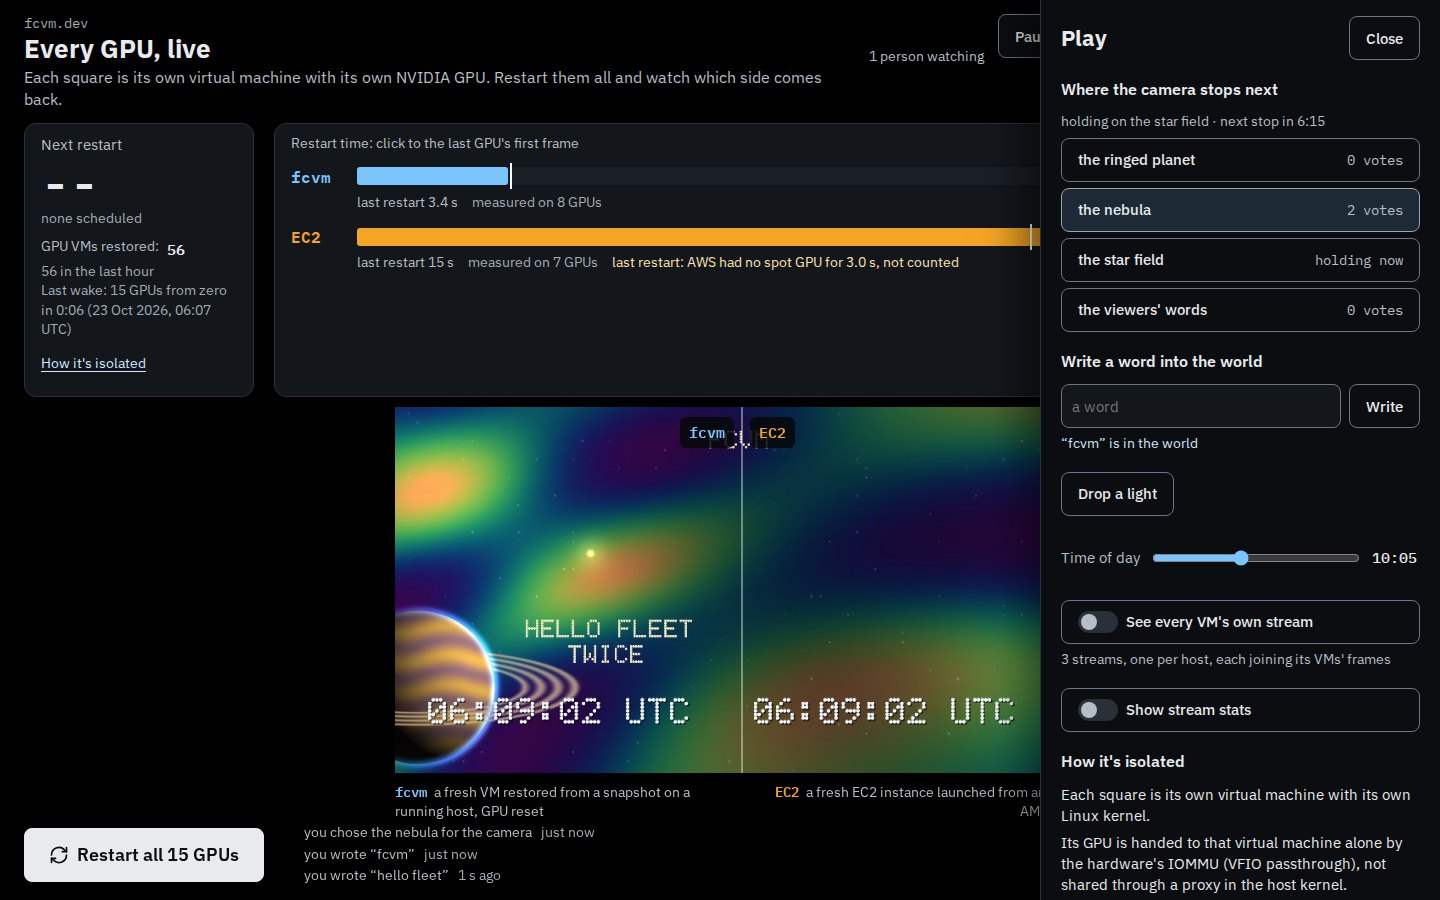
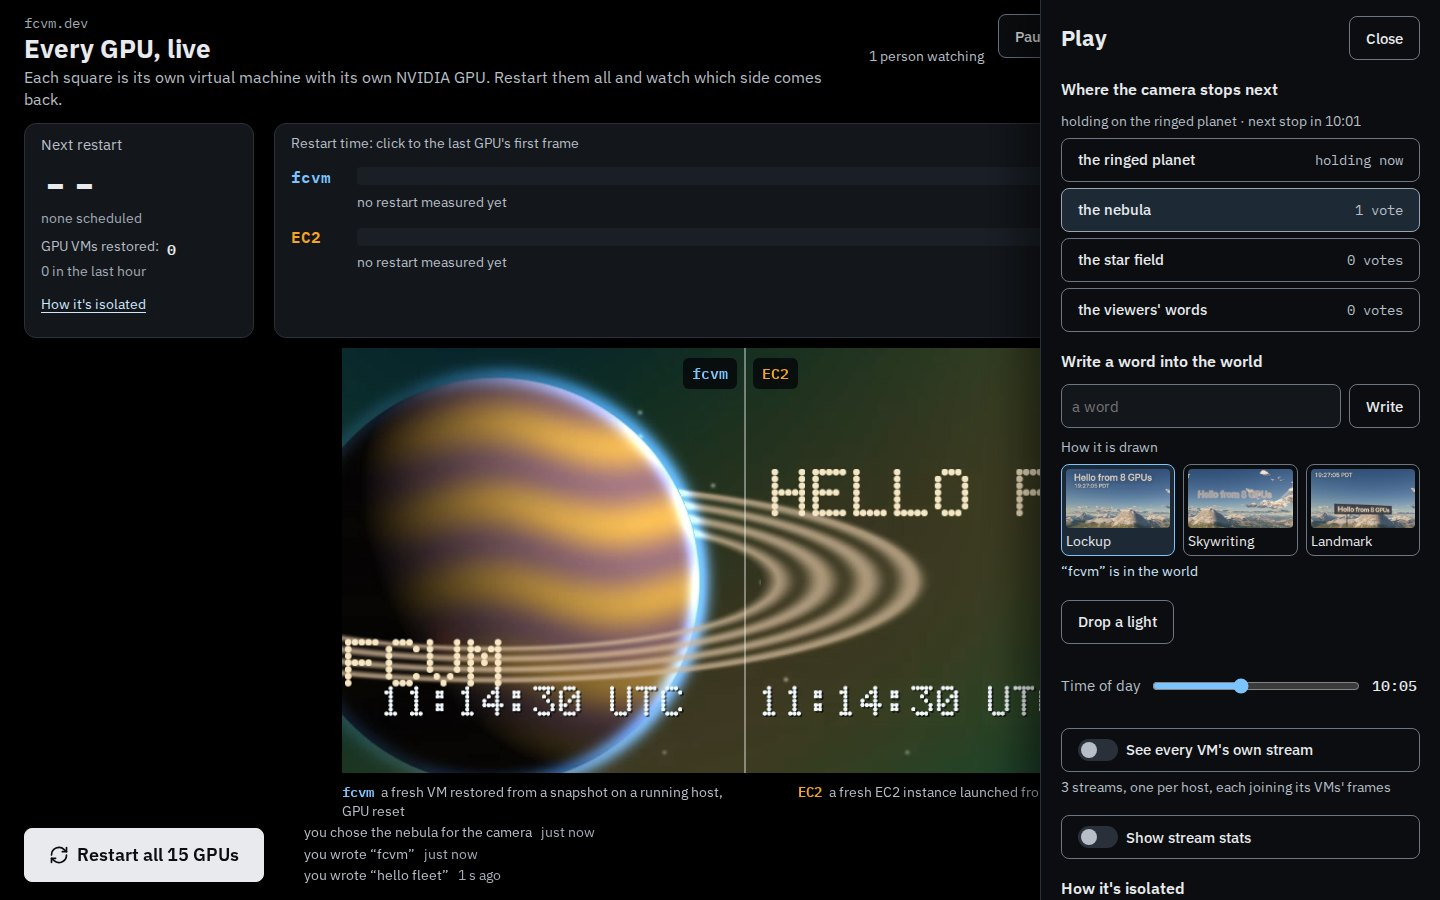
fleet/web: the sender picks the style of their sky message
The word intent carries text_style: lockup (the default), skywriting or
landmark. The Play drawer offers the three as a radio group under the word
field, Lockup preselected, each with a 320x180 thumbnail cropped from the
renderer's shots/text-styles.jpg (#1178, cb3eb357) into public/text-styles/.
Native radios keep it on Tab and the arrow keys. The phone layout gains a
"Play" link under the button so the drawer, and the choice, are reachable
there.

- core/view.ts: TEXT_STYLES, wordArgs(text, style), PlayView.word.style
- core/store.ts: ui.textStyle, default lockup
- mock/coordinator.ts: refuses an unknown text_style, keeps it per word in
  scene.words[]
- app/_wall/PlayDrawer.tsx, Wall.tsx, wall.css: the radio group, the phone link
- Tests: view tests that the intent carries each choice and that the selected
  option follows ui.textStyle; a mock test for storage and refusal; a browser
  test that picks Skywriting with the arrow keys and reads text_style in the
  sent intent and in the mock's scene; the phone test opens the drawer and
  picks Landmark with no sideways scroll
- README: the field, and the mismatch with the renderer, whose text_style is
  one per scene with values classic, lockup, skywriting, inworld

Red: wordArgs that always sends lockup fails "puts the choice in the word
intent"; a drawer that sends lockup fails the Skywriting browser test
(received text_style "lockup").

diff --git a/fleet/web/core/view.ts b/fleet/web/core/view.ts
@@ -444,6 +444,20 @@ function sleepView(st: FleetState, srvNow: number): SleepView | null {
 
 export const WORD_MAX = 28;
 
+/** How a viewer's message is drawn in the sky. The wire values are the coordinator's `text_style`. */
+export type TextStyle = "lockup" | "skywriting" | "landmark";
+
+export const TEXT_STYLES: readonly { value: TextStyle; label: string; thumb: string; alt: string }[] = [
+  { value: "lockup", label: "Lockup", thumb: "/text-styles/lockup.jpg", alt: "The message set as type above the clock, upper left" },
+  { value: "skywriting", label: "Skywriting", thumb: "/text-styles/skywriting.jpg", alt: "The message written in smoke in the sky" },
+  { value: "landmark", label: "Landmark", thumb: "/text-styles/landmark.jpg", alt: "The message on a sign standing on the ground" },
+];
+
+/** The arguments of a word intent: the text and the style its sender picked. */
+export function wordArgs(text: string, style: TextStyle): { text: string; text_style: TextStyle } {
+  return { text, text_style: style };
+}
+
 export interface PlayView {
   title: string;
   close: string;
@@ -453,7 +467,16 @@ export interface PlayView {
     options: { id: string; label: string; votes: string; holding: boolean; chosen: boolean }[];
     disabled: boolean;
   } | null;
-  word: { label: string; placeholder: string; submit: string; maxLength: number; status: string; statusKind: "idle" | "pending" | "applied" | "refused" };
+  word: {
+    label: string;
+    placeholder: string;
+    submit: string;
+    maxLength: number;
+    status: string;
+    statusKind: "idle" | "pending" | "applied" | "refused";
+    /** The three ways to draw it, one picked (Lockup unless the viewer chose another). */
+    style: { legend: string; options: { value: TextStyle; label: string; thumb: string; alt: string; selected: boolean }[] };
+  };
   light: { label: string; on: boolean };
   timeOfDay: { label: string; value: number; min: number; max: number; step: number; valueText: string };
   streams: { label: string; on: boolean; note: string; disabled: boolean };
@@ -524,7 +547,15 @@ function playView(s: ClientState, st: FleetState, srvNow: number, pend: IntentMs
     title: "Play",
     close: "Close",
     nudge,
-    word: { label: "Write a word into the world", placeholder: "a word", submit: "Write", maxLength: WORD_MAX, status: wordStatus, statusKind },
+    word: {
+      label: "Write a word into the world",
+      placeholder: "a word",
+      submit: "Write",
+      maxLength: WORD_MAX,
+      status: wordStatus,
+      statusKind,
+      style: { legend: "How it is drawn", options: TEXT_STYLES.map((o) => ({ ...o, selected: o.value === s.ui.textStyle })) },
+    },
     light: { label: s.ui.lightMode ? "Click the picture to drop it" : "Drop a light", on: s.ui.lightMode },
     timeOfDay: { label: "Time of day", value: tod, min: 0, max: 1 - 1 / 96, step: 1 / 96, valueText: fmt.timeOfDay(tod) },
     streams: { label: "See every VM's own stream", on: direct, note: streamsNote, disabled: !hasAgg },
@@ -1127,7 +1158,8 @@ export interface WallView {
   score: ScoreView | null;
   labels: StageLabels;
   play: PlayView | null;
-  playButton: { label: string; open: boolean };
+  /** The phone's way into the Play drawer: a text link under its one button. */
+  playButton: { label: string; open: boolean; phoneLabel: string };
   pause: { label: string; on: boolean };
   feed: FeedItem[];
   counter: CounterView | null;
@@ -1237,7 +1269,7 @@ export function wallView(input: WallInput): WallView {
     version: s.version,
     online,
     banners,
-    playButton: { label: "Play", open: s.ui.drawer },
+    playButton: { label: "Play", open: s.ui.drawer, phoneLabel: "Play: write a word in the sky, drop a light" },
     pause: { label: s.ui.paused ? "Resume" : "Pause", on: s.ui.paused },
     help: "Click a square to look at its VM.",
     rotateHint: "Turn your phone sideways for a bigger picture.",

diff --git a/fleet/web/e2e/wall.spec.ts b/fleet/web/e2e/wall.spec.ts
@@ -357,6 +357,26 @@ test("the text check refuses a word, and the page says so", async ({ page }) => 
   expect(st.state.scene.words.some((w) => w.text === "forbidden")).toBe(false);
 });
 
+test("the sender picks how the message is drawn: Skywriting, with the keyboard", async ({ page }) => {
+  await openWall(page, 15);
+  await page.getByTestId("play").click();
+  const lockup = page.getByRole("radio", { name: "Lockup" });
+  await expect(lockup).toBeChecked();
+  await expect(page.getByTestId("text-style-lockup").locator("img")).toHaveJSProperty("complete", true);
+  expect(await page.getByTestId("text-style").locator("img").evaluateAll((imgs) => imgs.map((i) => (i as HTMLImageElement).naturalWidth))).toEqual([320, 320, 320]);
+  // Arrow keys move between the three, as in any radio group.
+  await lockup.focus();
+  await page.keyboard.press("ArrowRight");
+  await expect(page.getByRole("radio", { name: "Skywriting" })).toBeChecked();
+  await page.getByLabel("Write a word into the world").fill("smoke");
+  await page.keyboard.press("Enter");
+  await expect(page.getByTestId("word-status")).toHaveText("“smoke” is in the world");
+  const sent = await page.evaluate(() => window.__fleet!.client.getState().accepted!.actions.filter((a) => a.name === "word" && a.args?.["text"] === "smoke").at(-1)!.args);
+  expect(sent).toEqual({ text: "smoke", text_style: "skywriting" });
+  const st = (await mockState()).state as unknown as { scene: { words: { text: string; text_style: string }[] } };
+  expect(st.scene.words.find((w) => w.text === "smoke")!.text_style).toBe("skywriting");
+});
+
 test("viewers choose the directed camera's next stop", async ({ page }) => {
   await openWall(page, 15);
   await page.getByTestId("play").click();
@@ -961,7 +981,14 @@ test("phone: the image full width, the two bars, one button, and a hint to turn 
   await expect(page.getByTestId("scoreboard")).toBeVisible();
   await expect(page.getByTestId("bar-fcvm")).toBeVisible();
   await expect(page.getByTestId("bar-ec2")).toBeVisible();
-  await expect(page.locator(".phone button:visible")).toHaveCount(1);
+  // One button; Play is a text link under it.
+  await expect(page.locator(".phone .btn:visible")).toHaveCount(1);
+  await page.getByTestId("phone-play").click();
+  await expect(page.getByTestId("drawer")).toBeVisible();
+  await page.getByTestId("text-style-landmark").click();
+  await expect(page.getByRole("radio", { name: "Landmark" })).toBeChecked();
+  expect(await page.evaluate(() => document.documentElement.scrollWidth - window.innerWidth)).toBeLessThanOrEqual(0);
+  await page.getByRole("button", { name: "Close" }).click();
   await expect(page.getByTestId("restart-all")).toBeVisible();
   await expect(page.getByTestId("rotate-hint")).toHaveText("Turn your phone sideways for a bigger picture.");
   const overflow = await page.evaluate(() => document.documentElement.scrollWidth - window.innerWidth);

diff --git a/fleet/web/mock/coordinator.ts b/fleet/web/mock/coordinator.ts
@@ -228,7 +228,7 @@ export class MockCoordinator {
   private wss: WebSocketServer;
   private camera: CameraKey[] = [{ t: 0, x: 0, y: 0, zoom: 1 }];
   private timeOfDay = 0.42;
-  private words: { text: string; t: number; pos: { x: number; y: number } }[] = [];
+  private words: { text: string; t: number; pos: { x: number; y: number }; text_style: string }[] = [];
   private lights: { pos: { x: number; y: number }; world: Vec3; color: [number, number, number]; t: number }[] = [];
   private race: Race | null = null;
   private races: { fcvm_ms: number; ec2_ms: number; wait_ms: number; fcvm_gpus: number; ec2_gpus: number }[] = [];
@@ -405,7 +405,7 @@ export class MockCoordinator {
         epoch_unix_ms: this.opts.epochUnixMs,
         camera: this.camera.map((k) => ({ t: k.t, pos: [k.x, k.y, 0], look: [k.x, k.y, -10], fov_deg: 60 / k.zoom, x: k.x, y: k.y, zoom: k.zoom, ...(k.intent ? { intent: k.intent } : {}) })),
         time_of_day: this.timeOfDay,
-        words: this.words.map((w) => ({ text: w.text, t: w.t })),
+        words: this.words.map((w) => ({ text: w.text, t: w.t, text_style: w.text_style })),
         lights: this.lights.map((l) => ({ pos: l.world, color: l.color, t: l.t })),
       },
       image_aspect: IMAGE_ASPECT,
@@ -593,6 +593,9 @@ export class MockCoordinator {
       }
       case "word": {
         const text = typeof args["text"] === "string" ? args["text"].replace(/\s+/g, " ").trim() : "";
+        // The sender's style: lockup unless they picked another.
+        const style = args["text_style"] ?? "lockup";
+        if (style !== "lockup" && style !== "skywriting" && style !== "landmark") return this.refuse(c, "text_style is lockup, skywriting or landmark");
         await new Promise((r) => setTimeout(r, this.opts.checkMs));
         if (text.length === 0 || text.length > 28) return this.refuse(c, "a word is 1 to 28 characters");
         const bad = !/^[A-Za-z0-9 .,!?'-]+$/.test(text) || this.opts.refusedWords.some((w) => text.toLowerCase().includes(w.toLowerCase()));
@@ -603,7 +606,7 @@ export class MockCoordinator {
         const ang = k * 2.4;
         const rad = 0.25 + 0.12 * (k % 4);
         const pos = { x: (cam["x"] ?? 0) + Math.cos(ang) * rad * 1.6, y: (cam["y"] ?? 0) + Math.sin(ang) * rad - 0.1 };
-        this.words = [...this.words, { text, t, pos }].slice(-16);
+        this.words = [...this.words, { text, t, pos, text_style: style }].slice(-16);
         return this.committed(c, `word ${JSON.stringify(text)}`);
       }
       case "light": {

diff --git a/fleet/web/app/_wall/PlayDrawer.tsx b/fleet/web/app/_wall/PlayDrawer.tsx
@@ -6,7 +6,7 @@
 // which holds it until the Turnstile check passes when the coordinator asks for one.
 
 import { useEffect, useRef, useState } from "react";
-import type { WallView } from "../../core/index.ts";
+import { wordArgs, type WallView } from "../../core/index.ts";
 import { TurnstileWidget } from "./Turnstile.tsx";
 import type { WallClient } from "./wall-client.ts";
 
@@ -102,7 +102,7 @@ export function PlayDrawer({ client, view, onClose, section }: { client: WallCli
             e.preventDefault();
             const text = word.trim();
             if (text === "") return;
-            client.act("word", { text });
+            client.act("word", wordArgs(text, client.getState().ui.textStyle));
             setWord("");
           }}
         >
@@ -124,6 +124,22 @@ export function PlayDrawer({ client, view, onClose, section }: { client: WallCli
             {p.word.submit}
           </button>
         </form>
+        <fieldset className="styles" data-testid="text-style">
+          <legend>{p.word.style.legend}</legend>
+          {p.word.style.options.map((o) => (
+            <label key={o.value} className={`style-option${o.selected ? " selected" : ""}`} data-testid={`text-style-${o.value}`}>
+              <input
+                type="radio"
+                name="text-style"
+                value={o.value}
+                checked={o.selected}
+                onChange={() => client.ui({ textStyle: o.value })}
+              />
+              <img src={o.thumb} alt={o.alt} width={96} height={54} />
+              <span>{o.label}</span>
+            </label>
+          ))}
+        </fieldset>
         <p className={`word-status ${p.word.statusKind}`} role="status" data-testid="word-status">
           {p.word.status}
         </p>

diff --git a/fleet/web/core/test/view.test.ts b/fleet/web/core/test/view.test.ts
@@ -3,6 +3,8 @@ import * as fmt from "../format.ts";
 import { initialState, makeIntent, reduce, type ClientState, type FrameStats } from "../store.ts";
 import {
   BORROW_FADE_MS,
+  TEXT_STYLES,
+  wordArgs,
   REPOSITORY_URL,
   isolationView,
   REDUCED_MOTION_DARK_FADE_MS,
@@ -766,5 +768,29 @@ describe("re-tiling: each side as wide as the GPUs it has", () => {
     s = snap(s, 2, g2);
     const v = view(s, EPOCH);
     expect(v.plan.aggregated[0]!.box!.w / v.layout!.image.w).toBeCloseTo(0.75, 2);
+  });
+});
+
+describe("the style of a message", () => {
+  it("offers Lockup, Skywriting and Landmark with thumbnails, Lockup picked until the viewer picks another", () => {
+    let s = stateWith(fleet());
+    let st = view(s, EPOCH).play!.word.style;
+    expect(st.options.map((o) => [o.value, o.label, o.selected])).toEqual([
+      ["lockup", "Lockup", true],
+      ["skywriting", "Skywriting", false],
+      ["landmark", "Landmark", false],
+    ]);
+    expect(st.options.every((o) => o.thumb.startsWith("/text-styles/") && o.alt.length > 0)).toBe(true);
+    s = reduce(s, { type: "ui", patch: { textStyle: "skywriting" } });
+    st = view(s, EPOCH).play!.word.style;
+    expect(st.options.filter((o) => o.selected).map((o) => o.value)).toEqual(["skywriting"]);
+  });
+
+  it("puts the choice in the word intent", () => {
+    for (const { value } of TEXT_STYLES) {
+      const intent = makeIntent("w", "word", wordArgs("hello", value));
+      expect(intent.args).toEqual({ text: "hello", text_style: value });
+    }
+    expect(JSON.parse(JSON.stringify(makeIntent("w", "word", wordArgs("hi", "landmark"))))).toEqual({ type: "intent", id: "w", name: "word", args: { text: "hi", text_style: "landmark" } });
   });
 });

diff --git a/fleet/web/mock/test/mock.test.ts b/fleet/web/mock/test/mock.test.ts
@@ -113,6 +113,19 @@ describe("mock coordinator", () => {
     c.ws.close();
   });
 
+  it("keeps each word's style, Lockup when none is sent, and refuses a style it does not know", async () => {
+    const c = await live();
+    c.ws.send(JSON.stringify({ type: "intent", id: "ws-1", name: "word", args: { text: "smoke", text_style: "skywriting" } }));
+    c.ws.send(JSON.stringify({ type: "intent", id: "ws-2", name: "word", args: { text: "plain" } }));
+    c.ws.send(JSON.stringify({ type: "intent", id: "ws-3", name: "word", args: { text: "odd", text_style: "neon" } }));
+    await c.next(() => c.msgs.filter((m) => m["type"] === "receipt").length === 3);
+    const words = coord.fleetState().scene.words;
+    expect(words.find((w) => w.text === "smoke")).toMatchObject({ text_style: "skywriting" });
+    expect(words.find((w) => w.text === "plain")).toMatchObject({ text_style: "lockup" });
+    expect(c.msgs.find((m) => m["id"] === "ws-3")).toMatchObject({ outcome: "refused", reason: "text_style is lockup, skywriting or landmark" });
+    c.ws.close();
+  });
+
   it("refuses the test word", async () => {
     const c = await live();
     c.ws.send(JSON.stringify({ type: "intent", id: "w-bad", name: "word", args: { text: "forbidden" } }));

diff --git a/fleet/web/app/wall.css b/fleet/web/app/wall.css
@@ -322,3 +322,14 @@ h1, h2, h3, p { margin: 0; }
 @media (prefers-reduced-motion: reduce) {
   .reel video, .reel.leaving video { transition: none; }
 }
+
+/* ---- message style ------------------------------------------------------------------ */
+
+.drawer .styles { border: 0; margin: 4px 0 0; padding: 0; display: grid; grid-template-columns: repeat(3, minmax(0, 1fr)); gap: 8px; }
+.drawer .styles legend { font-size: 14px; color: var(--muted); margin-bottom: 6px; padding: 0; }
+.style-option { position: relative; display: flex; flex-direction: column; gap: 4px; min-height: 44px; padding: 4px; border: 1px solid var(--control); border-radius: 8px; cursor: pointer; font-size: 14px; }
+.style-option img { width: 100%; height: auto; aspect-ratio: 16 / 9; object-fit: cover; border-radius: 4px; display: block; }
+.style-option input { position: absolute; opacity: 0; width: 1px; height: 1px; }
+.style-option.selected { border-color: var(--fcvm); background: #1d2a36; }
+.style-option:focus-within { outline: 2px solid var(--fcvm); outline-offset: 2px; }
+.phone .play-link { margin: 0 16px; }

diff --git a/fleet/web/app/_wall/Wall.tsx b/fleet/web/app/_wall/Wall.tsx
@@ -564,6 +564,11 @@ export function Wall({ coordUrl, mediaUrl }: { coordUrl: string; mediaUrl: strin
           <p className="rotate-hint" data-testid="rotate-hint">
             {view.rotateHint}
           </p>
+          {view.play ? (
+            <button type="button" className="link play-link" data-testid="phone-play" aria-expanded={view.playButton.open} onClick={() => client.ui({ drawer: true, lightMode: false })}>
+              {view.playButton.phoneLabel}
+            </button>
+          ) : null}
           <div className="dock">{restart}</div>
         </div>
       ) : (

diff --git a/fleet/web/core/store.ts b/fleet/web/core/store.ts
@@ -96,6 +96,8 @@ export interface UiState {
   suspended: boolean;
   /** The recording is on screen (from asleep until the live image has replaced it). */
   reelOn: boolean;
+  /** How this viewer's next message is drawn. */
+  textStyle: "lockup" | "skywriting" | "landmark";
 }
 
 /** A tab hidden this long stops its frame streams; the coordinator socket stays. */
@@ -242,6 +244,7 @@ export function initialState(): ClientState {
       hiddenSince: null,
       suspended: false,
       reelOn: false,
+      textStyle: "lockup",
     },
   };
 }

diff --git a/fleet/web/README.md b/fleet/web/README.md
@@ -5,7 +5,10 @@ left and EC2 on the right, each side as wide as the GPUs it has live, live from 
 dashboard: the image sits letterboxed between the race (a countdown to the next restart
 and two bars, fcvm against EC2) and one button, "Restart all N GPUs". Everything else
 (the camera's next stop, words, lights, the time of day, how the streams arrive, stream
-stats) is in the Play drawer. A viewer can also borrow one of the wall's GPUs for a
+stats) is in the Play drawer, where the sender of a word also picks how it is drawn:
+Lockup (type above the clock), Skywriting (smoke in the sky) or Landmark (a sign on the
+ground). The three thumbnails are crops of the renderer's `shots/text-styles.jpg` (#1178,
+commit cb3eb357), in `public/text-styles/`. A viewer can also borrow one of the wall's GPUs for a
 minute. It runs against a mock fleet (`mock/`) until the coordinator and renderers are
 deployed.
 
@@ -345,6 +348,14 @@ yet; the page reads these shapes and the mock speaks them (`core/protocol.ts` ma
   `hosts` and `last_wake` are this page's reading. Without `power` the fleet is awake.
 - `{"type": "visibility", "visible": bool}` from the page; `viewers.count` counts visible tabs.
 - `/media/wall-reel.json: {recorded_at, duration_s, measured: {gpus, fcvm_ms, ec2_ms} | null}`.
+- `word {text, text_style}`: the sender picks how their message is drawn, `lockup` (the
+  default when absent), `skywriting` or `landmark`; the mock refuses any other value and
+  keeps the style with the word in `scene.words[]`. The renderer (#1178, PROTOCOL.md "Text
+  styles") reads a different shape today: one `text_style` for the whole scene, with the
+  values `classic` (its default), `lockup`, `skywriting` and `inworld`. So the coordinator
+  has to map `landmark` to `inworld` and carry the newest word's style into the scene's
+  `text_style` (the renderer draws the newest word only), or the renderer has to take a
+  per-word style. Neither PR defines it yet.
 
 The wall no longer sends camera drags or `set_auto_relaunch`: the camera is directed,
 with nudges, and the owner's cadence replaces the viewer setting. A dropped light is
